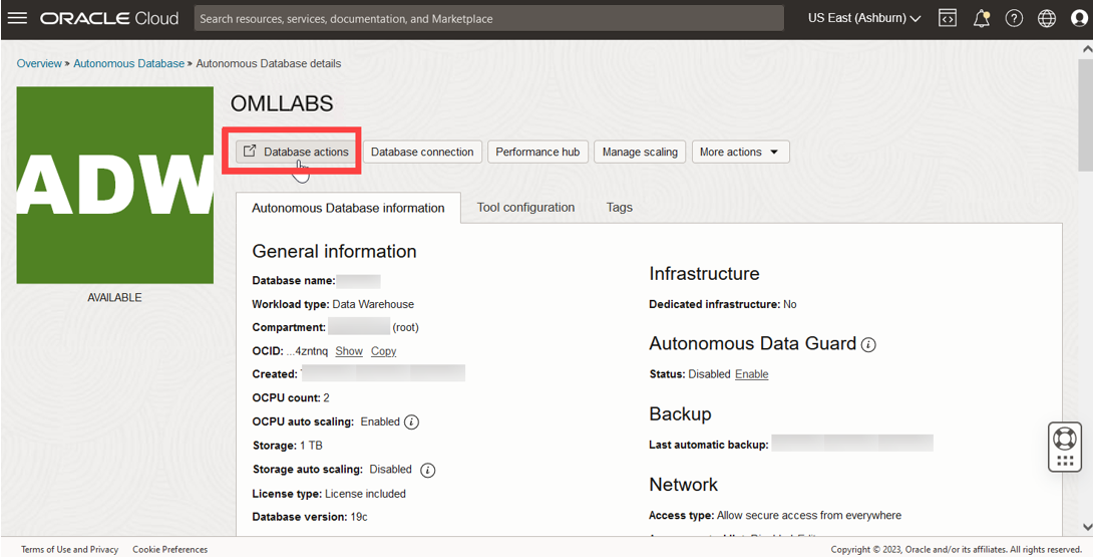
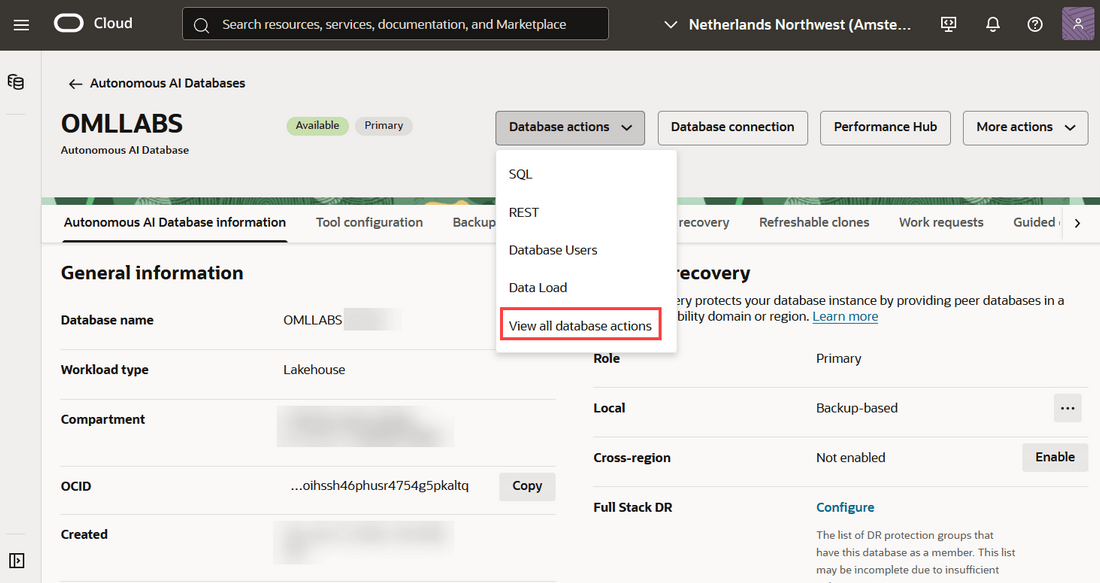
Added 2 tasks for DSA

diff --git a/building-blocks/tasks/oml/dsa-recommended-models.md b/building-blocks/tasks/oml/dsa-recommended-models.md
@@ -1,0 +1,37 @@
+<!--
+    {
+        "name":"Recommended models",
+        "description":"Recommended models for DSA"
+    }
+-->
+
+Data Science Agent works with large language models accessed through Oracle `DBMS_CLOUD_AI` and `DBMS_CLOUD_AI_AGENT` packages. The `DBMS_CLOUD_AI` package, with Select AI, supports the translation of natural language prompts to generate, run, explain SQL statements, and also enables RAG and natural language-based interactions, including chats with LLMs.
+This table lists the recommended large language models and the scenarios in which each should be used.
+
+| Provider | Tier | Large Language Model |
+| ------------- | ----------- | ---------------------- |
+| OpenAI or OCI GenAI | Top | gpt-6-sol |
+| OpenAI or OCI GenAI | Cost-effective | gpt-6-luna |
+| OCI GenAI | Top | xai.grok-4.7 |
+| OCI GenAI | Cost-effective | xai.grok-4.3 |
+| Google | Top | gemini-3.8-flash |
+| Google | Cost-effective | gemini-3.8-flash |
+| Anthropic | Top | claude-opus-5-5 |
+| Anthropic | Cost-effective | claude-sonnet-5-5 |
+{: title="Recommended Models"}
+
+>**Note:** When using OCI Generative AI, use the provider and model identifiers exactly as documented for OCI GenAI. Some model identifiers may include the original model family or vendor name.
+
+
+Explanation of tiers:
+
+* **Top:** Represents the best state-of-the-art model from a specific provider. This tier is the strongest option in terms of quality, reliability, and precision.
+* **Cost-effective:** Represents a good compromise between quality, cost, and speed. These models are typically faster and less expensive. But the trade-off is lower quality and reliability compared to the Top tier.
+
+
+For more information, refer to [Using Oracle Data Science Agent](https://docs.oracle.com/en/database/oracle/machine-learning/data-science-agent/dsaug/dsa-best-practices.html)
+
+
+You may now **proceed to the next lab**.
+
+> **Note:** If you have a Free Trial account, when your Free Trial expires your account will be converted to an **Always Free** account. You will not be able to conduct Free Tier workshops unless the Always Free environment is available. **[Click here for the Free Tier FAQ page.](https://www.oracle.com/cloud/free/faq.html)**

diff --git a/building-blocks/tasks/oml/dsa-access.md b/building-blocks/tasks/oml/dsa-access.md
@@ -1,0 +1,31 @@
+<!--
+    {
+        "name":"Access Oracle Data Science Agent",
+        "description":"Steps to sign into OML Data Science Agent"
+    }
+-->
+
+You can access Data Science Agent directly from the Oracle Machine Learning UI home page.
+To access Data Science Agent, you must first sign into Oracle Machine Learning UI from Autonomous AI Database. To sign into Oracle Machine Learning from an Autonomous AI Database instance:
+
+1. On the Autonomous AI Database information page click **Database actions** and then click **View all database actions**. The Database Actions Launchpad opens.
+
+    ![Database Actions](images/database-actions.png "View all database options")
+
+2. On the Database Actions page, go to the **Development** tab and click **Machine Learning**. The Oracle Machine Learning UI sign in page opens.
+
+    ![Machine Learning](images/dbactions-dev-machine-learning.png "Machine Learning option on Development tab")
+
+3. On the Oracle Machine Learning UI sign in page, enter your username and password, and click **Sign in**. The Oracle Machine Learning UI home page opens.
+    ![OML Sign in page](images/omluser-signin.png "Oracle Machine Learning UI sign in page")
+
+4. On your Oracle Machine Learning UI home page, under Quick Actions, click **Data Science Agent**.
+
+    Alternatively, you can click the Cloud menu icon ![](images/cloud-menu-icon.png "") on the top left to open on the left navigation pane. Here, click **Data Science Agent**.
+
+    ![Data Science Agent on OML UI homepage](images/oml-ui-homepage.png "Data Science Agent on Oracle Machine Learning UI home page")
+
+5. This opens the Data Science Conversations listing page.
+
+    ![Data Science Agent listing page](images/dsa-listing-page-blank.png "Data Science Agent listing page")
+
